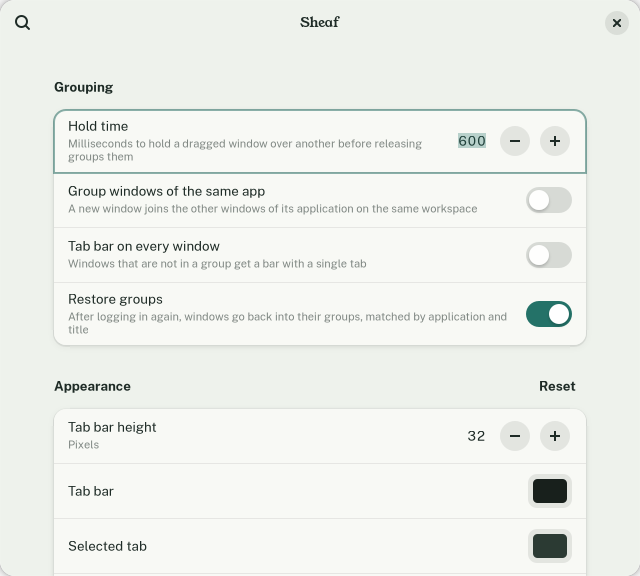
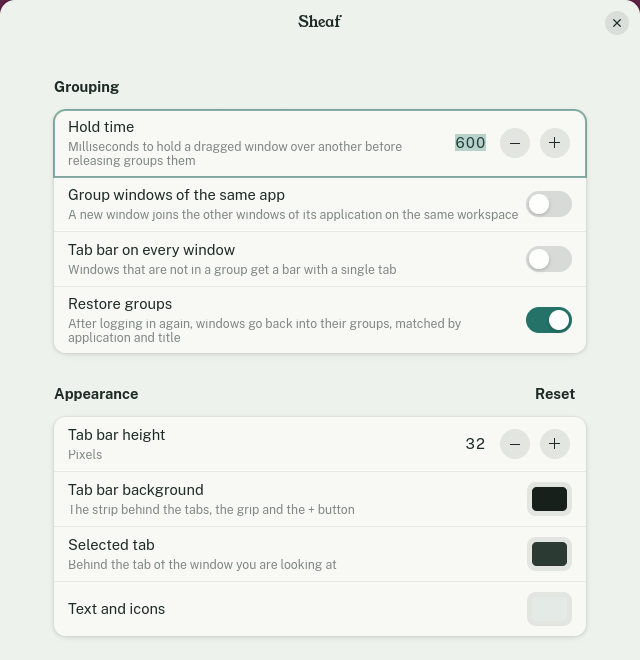
Sheaf 1.2.2: clearer tab bar color, checked through restarts and updates
The Settings rows now read "Tab bar background", "Selected tab" and "Text and icons", each with a line saying what it colors. (The prefs.js part went in with the previous commit.) The README and its Settings screenshot match, and the release notes mention it.

test/colors.sh runs the packaged extension in a headless nested shell three times: it picks a color through GSettings and checks the bar changes at once, restarts and checks again, then updates from the previous package and checks again.

diff --git a/test/window.js b/test/window.js
@@ -1,0 +1,19 @@
+#!/usr/bin/gjs -m
+// A plain window for the tests to group: gjs -m test/window.js "Title"
+import GLib from 'gi://GLib';
+import Gtk from 'gi://Gtk?version=4.0';
+import system from 'system';
+
+Gtk.init();
+const window = new Gtk.Window({
+    title: system.programArgs[0] ?? 'Sheaf test',
+    default_width: 640,
+    default_height: 420,
+});
+const loop = new GLib.MainLoop(null, false);
+window.connect('close-request', () => {
+    loop.quit();
+    return false;
+});
+window.present();
+loop.run();

diff --git a/README.md b/README.md
@@ -121,8 +121,12 @@ gnome-extensions prefs sheaf@webhookstudios.github.io
 | Group windows of the same app | Off | A new window joins the other windows of its application on the same workspace |
 | Tab bar on every window | Off | Windows that are not in a group get a bar with a single tab |
 | Restore groups | On | After logging in again, windows go back into their groups |
-| Tab bar height, colors | 32 px, dark | Appearance of the bar |
+| Tab bar height | 32 px | Height of the bar above a group |
+| Tab bar background | Dark pine | The strip behind the tabs, the grip and the + button |
+| Selected tab, Text and icons | Pine, light gray | The tab you are looking at, and the titles and icons |
 | Keyboard shortcuts | See above | Shortcuts already used by the desktop cannot be chosen |
+
+The colors you pick are kept in your settings, not in Sheaf's files, so they stay through restarts and updates. **Reset** puts the bar height and colors back to the defaults. `test/colors.sh` checks this in a test shell: it picks a color, restarts, then updates from the previous package and checks that the bar keeps the color.
 
 ## Limitations
 

diff --git a/RELEASE-NOTES.md b/RELEASE-NOTES.md
@@ -1,8 +1,9 @@
 # Sheaf 1.2.2
 
-A bigger app icon. Everything else works exactly as before.
+A bigger app icon, and an easier-to-find tab bar color.
 
 - The app icon is bigger, so it sits evenly with your other apps in the dock and the app grid.
+- In Settings, the tab bar color is now called "Tab bar background", and each color says what it colors. The colors you pick stay through restarts and updates.
 
 Install:
 
